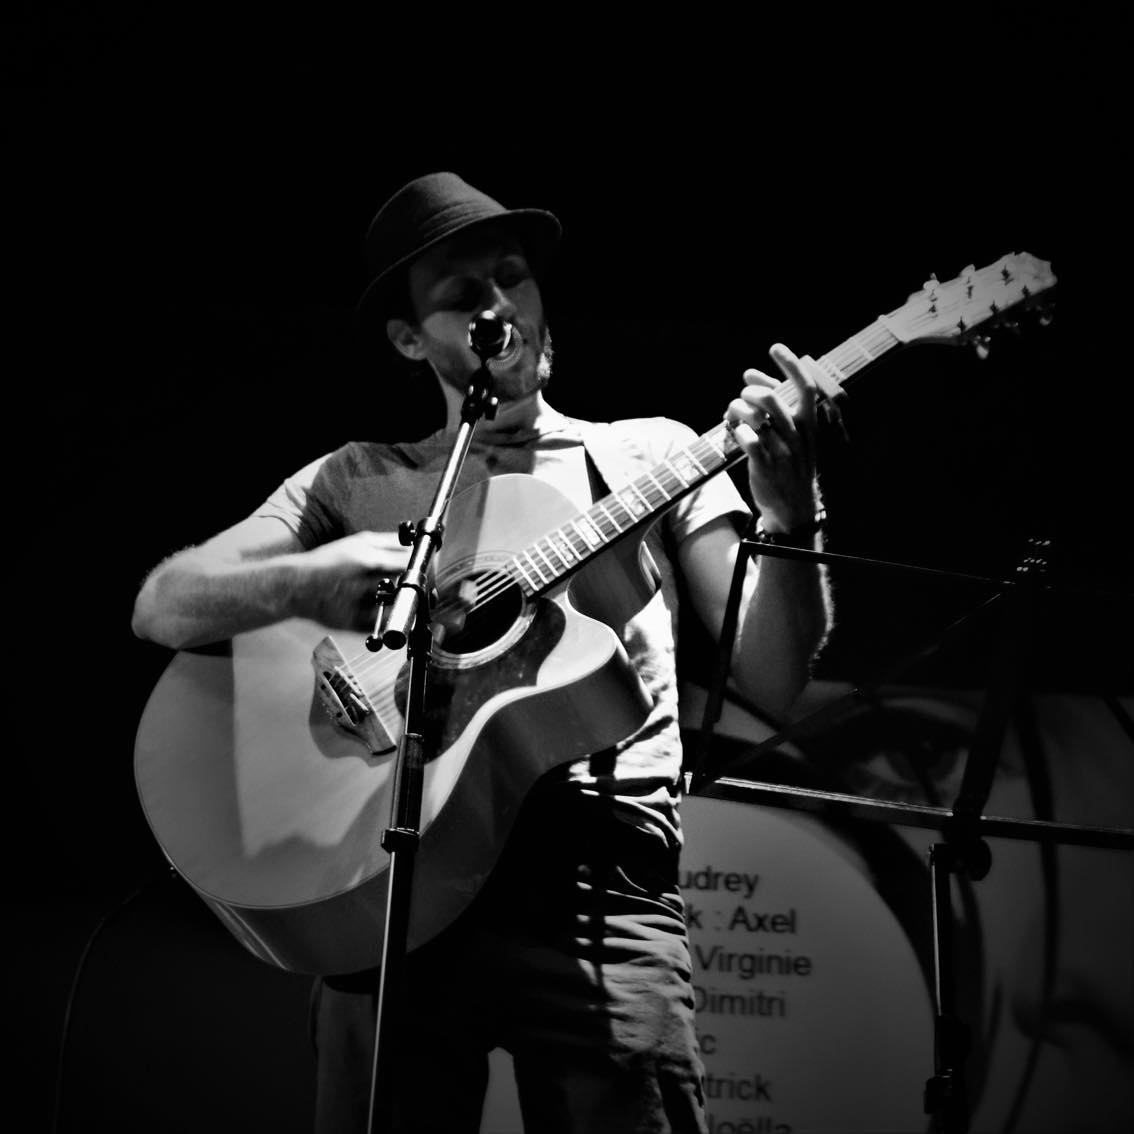
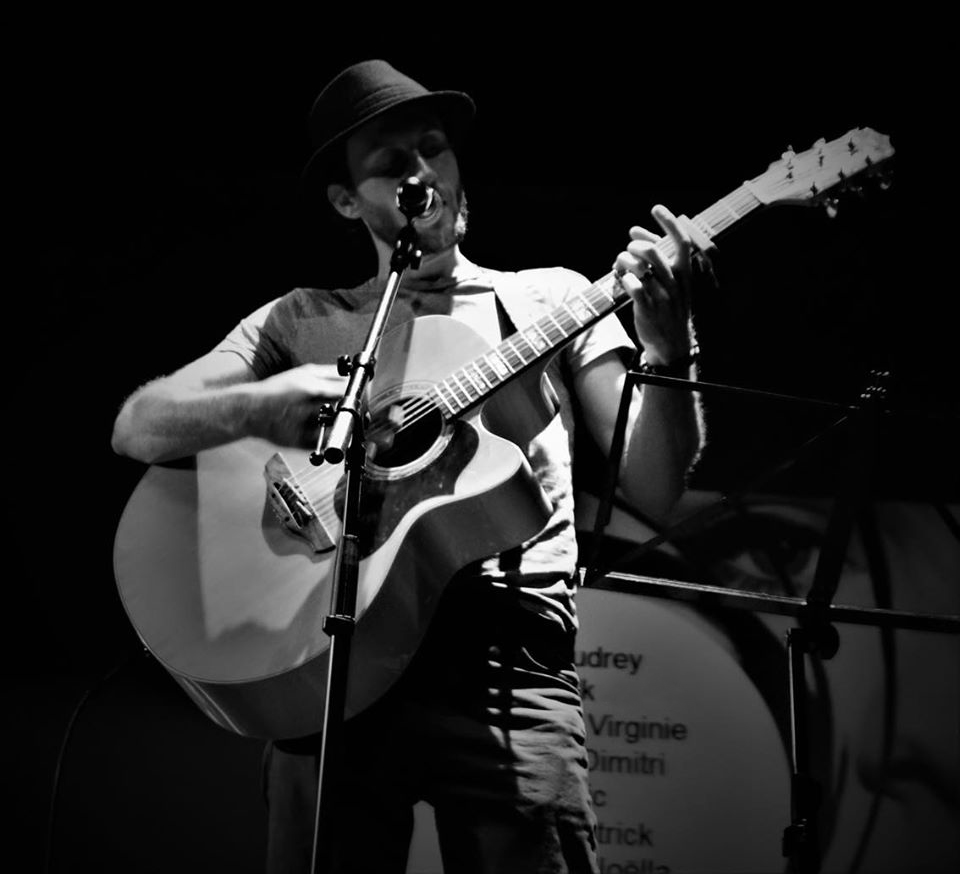
Styles on Bio

Changed region(s): [[0.0938, 0.0618, 1.0, 0.9577], [0.8125, 0.8341, 0.8438, 0.865], [0.4375, 0.8959, 0.4688, 0.9268]]

diff --git a/src/components/TabsArea.js b/src/components/TabsArea.js
@@ -15,13 +15,34 @@ function TabsArea() {
         className="mb-3"
       >
         <Tab eventKey="skills" title="Compétences">
-          <p className="align-left px-3 light-grey">Lorem ipsum dolor sit amet, consectetur adipiscing elit. Mauris facilisis lorem massa, eget mattis ipsum mollis nec. Fusce congue sollicitudin lorem, ut aliquam dui vestibulum at. Integer ligula enim, tristique quis felis sodales, iaculis vehicula enim. Mauris mattis eleifend varius. Suspendisse potenti. Integer quis urna mauris. Duis ac mauris lacinia, blandit libero nec, tincidunt tortor. Donec lacinia egestas nisi nec condimentum.</p>
+          <p className="align-left px-3 light-grey">
+          <b>Langages -</b> HTML / CSS / JavaScript / PHP / SQL
+          <br />
+          <b>Outils -</b> GIT / Symfony / REACT / MySQL / Wordpress
+          <br />
+          <b>Suite Adobe -</b> Photoshop / Illustrator / Indesign / Premiere / XD
+
+            </p>
         </Tab>
         <Tab eventKey="experiences" title="Experiences">
-        <p className="align-left px-3 light-grey">Mauris efficitur aliquam enim. Nulla blandit pulvinar eleifend. Sed cursus ipsum ac ante dictum, et commodo ex euismod. Integer id egestas tellus. Praesent non lacinia eros, nec pretium turpis. Praesent eu elementum nisl, id condimentum erat. Aenean id mi vitae dui auctor bibendum quis non tortor. Maecenas porta, diam eu scelerisque molestie, augue felis vehicula nisl, in fermentum odio lacus ac est.</p>
+        <p className="align-left px-3 light-grey">
+        <b>Webmaster / chargé de communication </b>| Mairie de Sotteville-lès-Rouen | 2012-2021
+        <br />
+        <b>Webmaster concepteur de site web </b>| Freelance | 2013-2018
+        <br />
+        <b>Graphiste / Chargé de communication </b>| Eure habitat | 2008-2012
+
+
+          </p>
         </Tab>
         <Tab eventKey="certifications" title="Formation">
-        <p className="align-left px-3 light-grey">Aliquam ultrices, orci ultricies ultricies eleifend, tellus magna fermentum felis, id tristique orci lacus et elit. Phasellus sed pharetra neque. In a risus sit amet dolor consequat egestas. Mauris mi dolor, imperdiet quis laoreet quis, auctor imperdiet mi. Sed ligula lectus, consectetur sed turpis sit amet, porta facilisis erat. Aenean ipsum turpis, rutrum sed condimentum a, hendrerit at nibh. Proin vulputate nunc eget justo cursus vulputate.</p>
+        <p className="align-left px-3 light-grey">
+        <b>Titre professionnel de développeur web et web mobile (BAC +2) </b>| AFPA de Rouen | 2021-2022
+        <br />
+        <b>Communication globale des entreprises et des marques </b>| ISCOM Rouen | 2007-2008
+        <br />
+        <b>Certificat de qualification professionnelle en PAO </b>| AFI-LNR Mont Saint Aignan | 2005-2007
+          </p>
         </Tab>
       </Tabs>
     );

diff --git a/src/components/Bio.js b/src/components/Bio.js
@@ -1,9 +1,11 @@
 import './animations.css';
+import './Bio.css';
+
 import { Container, Tab } from "react-bootstrap";
 import { Row } from "react-bootstrap";
 import { Col } from "react-bootstrap";
 import { Image } from 'react-bootstrap';
-import profil from '../data/img/profil.jpg'
+import profil from '../data/img/profil3.jpg'
 import TabsArea from './TabsArea';
 
 
@@ -15,15 +17,16 @@ function Bio() {
 
             <Row >
                 <Col lg={4}><div className="profil mb-4"><Image id="profil-img" src={profil} fluid /></div></Col>
-                <Col lg={8}> <div className="text-white px-2">
+                <Col lg={8}> <div className="bio-txt text-white px-2 mt-4">
                     <div className="text-white"><h1 className="tracking-in-expand poppinsTitle align-left">A propos</h1></div>
                     <p className="poppinsText align-left light-grey">
-                        Lorem ipsum dolor sit amet, consectetur adipiscing elit. Vivamus vestibulum enim non odio pulvinar ullamcorper. Fusce facilisis erat risus, in auctor dui porttitor et. Praesent dui nibh, euismod sit amet mattis at, fringilla eu risus. Ut sit amet tortor at sem posuere dictum. Aliquam odio diam, dignissim nec maximus non, bibendum ac nibh. Suspendisse lacus libero, ultricies ut felis sed, porta laoreet nibh. Suspendisse sapien justo, egestas non tempor nec, vehicula cursus mi. Phasellus dignissim ultrices erat, vitae ultricies massa imperdiet quis. Curabitur sagittis sapien ut sem faucibus feugiat.
+                    Hello, je m’appelle Axel, développeur Web junior & passionné de musique ! <br/>
+                    Après avoir travaillé pendant une dizaine d'années en tant que webmaster en entreprise et en freelance, j'ai choisi me spécialiser dans le domaine du développement web.
                     </p>
                     </div>
 
 
-                    <Row className=" mt-5 scale-up-bottom tabs-area">
+                    <Row className="mt-5 scale-up-bottom tabs-area">
                         <TabsArea />
                     </Row>
                 </Col>

diff --git a/src/components/tabsArea.css b/src/components/tabsArea.css
@@ -1,6 +1,6 @@
 .nav-tabs {
     border: none !important;
-    margin-left: 0.5em;
+    /* margin-left: 0.5em; */
 
 }
 .nav-item .nav-link {
@@ -29,11 +29,14 @@ border-bottom: 1px solid #F9A940;
 .tabs-area .nav-link:not(:focus) {
     border: none;
     border-bottom: 1px solid lightgray;
-
 }
 
 .tabs-area .nav-link:focus {
     border: none;
     border-bottom: 1px solid #F9A940;
+}
+
+.tab-content p {
+line-height: 2em;
 }
 

diff --git a/src/components/Bio.css b/src/components/Bio.css
@@ -1,0 +1,11 @@
+#profil-img {
+    max-height: 50vh !important;
+    margin-top: -2em !important;
+  }
+
+
+  @media screen and (min-width: 992px){
+.bio-txt {
+    margin-right: 2.5em;
+}
+}

diff --git a/src/App.css b/src/App.css
@@ -4,8 +4,8 @@
 
 .App {
   text-align: center;
+  min-height: 100vh;
 }
-
 
 .bgBlack {
   background-size: cover;
